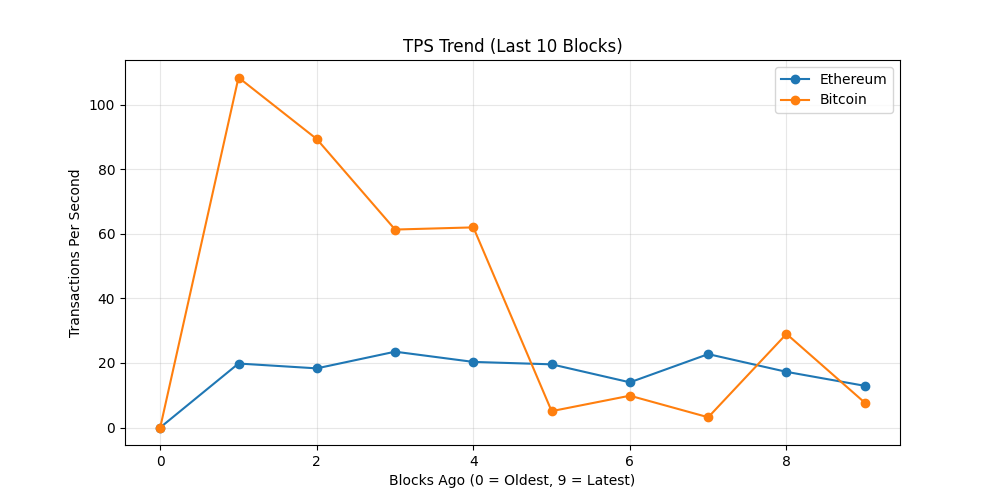
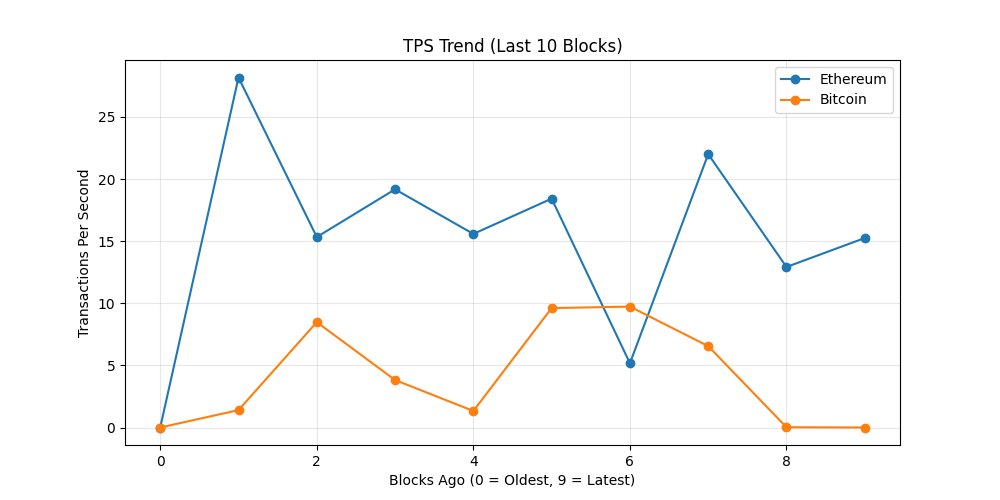
chore: update on-chain dashboard

diff --git a/README.md b/README.md
@@ -19,7 +19,7 @@ The README itself acts as the dashboard and is regenerated automatically on a 6 
 demonstrating a production-style, infrastructure-focused observability workflow rather
 than a traditional UI-driven approach.
 
-_Last updated: 2026-06-28 19:44 UTC_
+_Last updated: 2026-06-29 04:58 UTC_
 
 ## API Usage (GetBlock.io)
 - Calls used: **24**
@@ -27,8 +27,8 @@ _Last updated: 2026-06-28 19:44 UTC_
 ## Network Metrics
 | Chain | Block Height | TX Count | TPS (10 blk avg) | Block Util | Avg Fee |
 |------|-------------|----------|------------------|------------|---------|
-| Ethereum | 25418321 | 155 | 12.92 | 33.95% | 0.1 Gwei |
-| Bitcoin | 955842 | 4245 | 7.7 | 99.79% | N/A |
+| Ethereum | 25421081 | 183 | 15.25 | 40.84% | 0.1 Gwei |
+| Bitcoin | 955883 | 6600 | 0.0 | 99.8% | N/A |
 
 ## Visuals
 ### Transactions Trend
@@ -43,10 +43,7 @@ _Last updated: 2026-06-28 19:44 UTC_
 ## Whale Alerts (latest block)
 - Transaction hashes are truncated for readability.
 - Full hashes are available in `dashboards/metrics.json`
-- Bitcoin | 1745.3 BTC | `85f48ecf7b18…`
-- Bitcoin | 145.74 BTC | `309477a7fb55…`
-- Bitcoin | 682.18 BTC | `7d39907095d1…`
-- Bitcoin | 241.51 BTC | `19fabbacea9b…`
+- Bitcoin | 170.41 BTC | `dc89b492aceb…`
 
 ## Run locally
 
